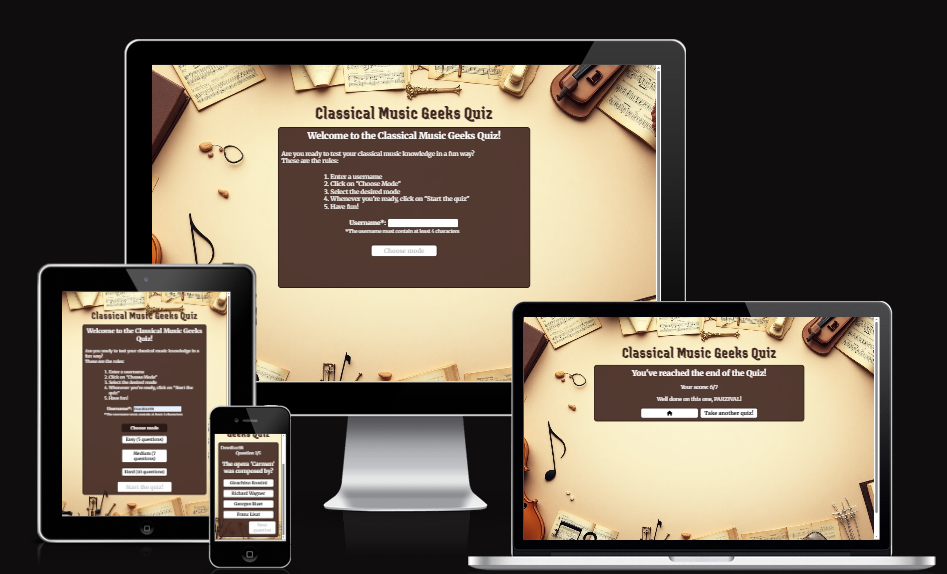
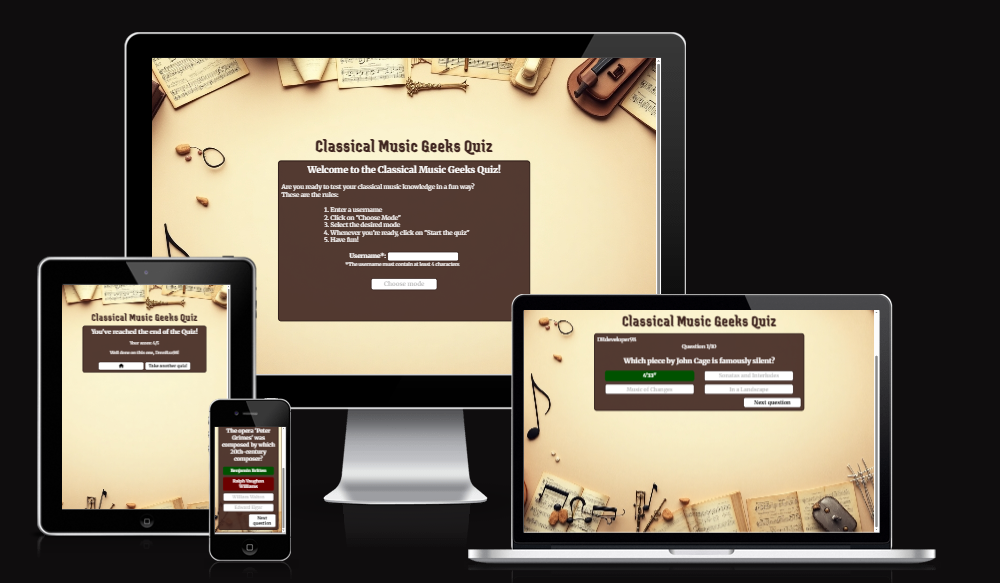
Add am-I-responsive screenshot with updated design and correct manual testing part about hover effect on answer buttons in TESTING.md

diff --git a/TESTING.md b/TESTING.md
@@ -125,12 +125,12 @@ For responsiveness and tests on devices larger than the ones mentioned above I u
 </tr>
 <tr>
 <td>Select correct answer</td>
-<td>Selected button background-colour turns green, text-colour turns white. If the mouse cursor is inside button, its background-colur will be brown and the border will be green. "Next question" button is now clickable</td>
+<td>Selected button background-colour turns green, text-colour turns white. "Next question" button is now clickable</td>
 <td>Pass</td>
 </tr>
 <tr>
 <td>Select wrong answer</td>
-<td>Selected button background-colour turns red, text-colour turns white; the correct answer button turns green, its text-colour turns white. If the mouse cursor is inside button, its background-colur will be brown and the border will be red. "Next question" button is now clickable</td>
+<td>Selected button background-colour turns red, text-colour turns white; the correct answer button turns green, its text-colour turns white. "Next question" button is now clickable</td>
 <td>Pass</td>
 </tr>
 <tr>
